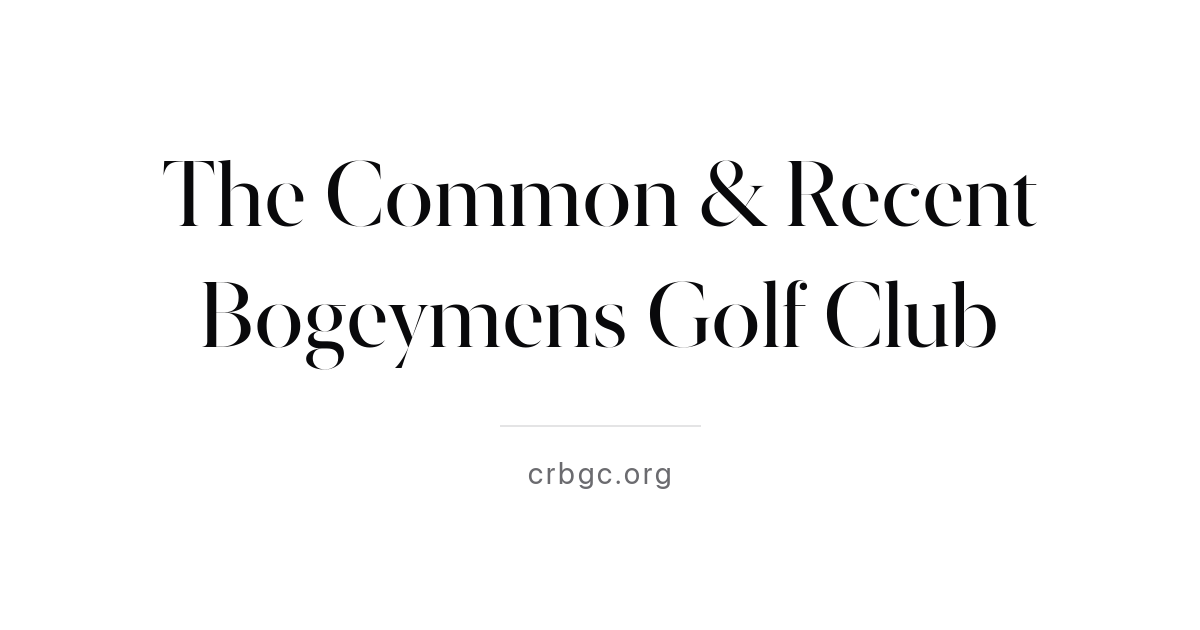
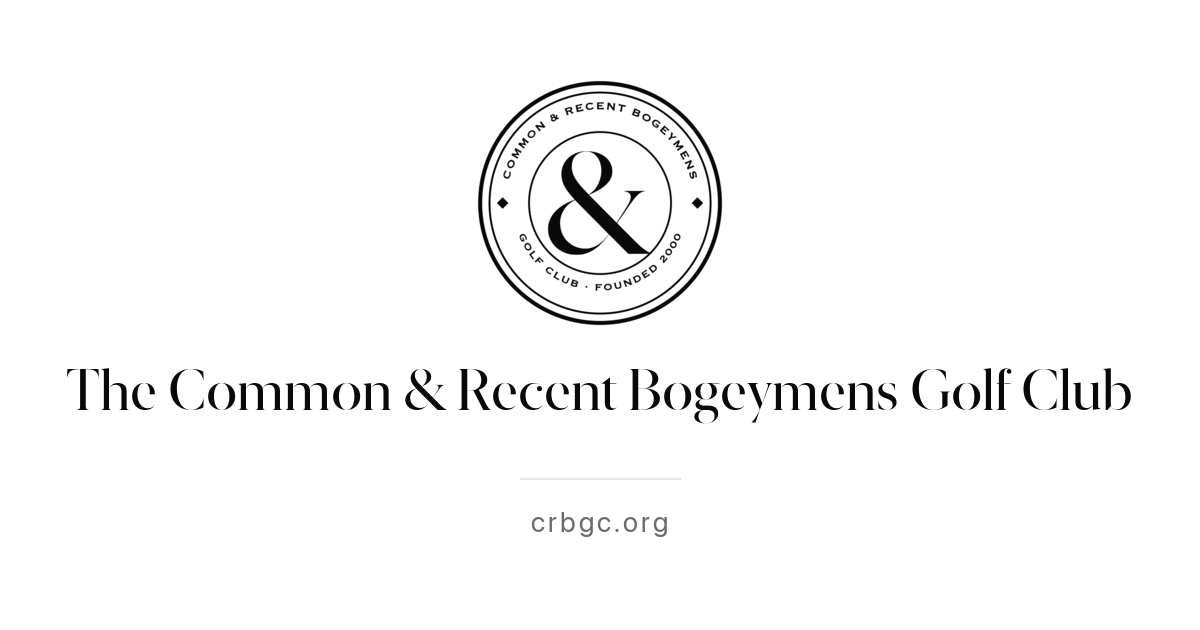
feat: give the Club a seal, and put it in the header and the card (#127)
feat: give the Club a seal, and put it in the header and the card (#126)

#124 gave the site an ampersand — enough for a favicon and deliberately no
more. It carries no name, so the header was a line of type and the link
preview a wordmark on white.

The seal reads COMMON & RECENT BOGEYMENS on the ring and GOLF CLUB ·
FOUNDED 2000 below. FOUNDED 2000 is deliberate: the homepage says the Club
formed informally in the summer of 2000 and was officially established in
the summer of 2026, and the seal claims the longer history.

Its centre is the same traced New York ampersand that static/favicon.svg
already carries, so the favicon is literally the seal's middle. The ring
is traced Copperplate. Both are outlines rather than <text>, which matters
more here than it did for the favicon: under a substitute face the ring
text would over- or under-run its arc rather than merely shifting.

The rings are filled annuli rather than strokes. That makes the seal
fill-only, which is what lets ImageMagick render it — verified against a
WebKit render of the same file at RMSE 1.8%, pure antialiasing. So the
card composites inside `task icons` and stays byte-stable, instead of
needing a browser in the build path.

In the header it is an <img>, never inlined: inline SVG would ship the
traced path data on all 89 pages. It is decorative there — alt="", with
the title text beside it carrying the accessible name — and has explicit
[…]

diff --git a/layouts/_default/baseof.html b/layouts/_default/baseof.html
@@ -64,7 +64,22 @@
   </head>
   <body>
     <header>
-      <a href="{{ "/" | relURL }}" class="site-title">{{ .Site.Title }}</a>
+      {{/* The seal is decorative here: alt="" keeps it out of the accessible
+        name, which stays the title text beside it. width/height are explicit so
+        the header does not shift while the SVG loads. It is an <img> rather than
+        inline SVG on purpose — inlining would ship the seal's traced path data
+        on every one of the site's pages.
+      */}}
+      <a href="{{ "/" | relURL }}" class="site-title">
+        <img
+          class="site-seal"
+          src="{{ "seal.svg" | relURL }}"
+          alt=""
+          width="56"
+          height="56"
+        />
+        <span>{{ .Site.Title }}</span>
+      </a>
       {{ $section := .Section }}
       <nav class="site-nav">
         <a

diff --git a/assets/css/style.css b/assets/css/style.css
@@ -91,11 +91,21 @@ header {
 }
 
 .site-title {
+  display: inline-flex;
+  align-items: center;
+  gap: 0.75rem;
   font-family: var(--font-heading);
   font-size: var(--size-h5);
   font-weight: 400;
   color: var(--fg);
   text-decoration: none;
+}
+
+/* The seal keeps its own size; only the title text beside it wraps. */
+.site-seal {
+  flex: none;
+  width: 3.5rem;
+  height: 3.5rem;
 }
 
 .site-title:hover {

diff --git a/README.md b/README.md
@@ -16,7 +16,7 @@ content/
   notes/                          # essays, history, course architecture — the informal side
 layouts/                          # Hugo templates and partials
 assets/css/style.css              # site styles (Biome-managed)
-static/                           # served at the root: CNAME, favicons, the Open Graph card
+static/                           # served at the root: CNAME, the seal, favicons, the Open Graph card
 hugo.toml                         # config: permalinks, disabled kinds, locale
 ```
 
@@ -42,9 +42,10 @@ The homepage is curated, not a mirror of the nav. The nav carries five sections;
 - **No taxonomies.** `notice_type` and `meeting_type` live in frontmatter and are queried directly in templates.
 - **No `tags:`, no `lastmod:`.** With taxonomy and term pages disabled, tags rendered nowhere and reached no feed. `lastmod:` fed only the feed's `lastBuildDate`, which is also gone — `layouts/home.rss.xml` explains why and what restoring it would cost. Content frontmatter is `title`, `description`, `date`, plus the fields its own section needs.
 - **`<abbr>` tags** in content are intentional (e.g., for C&RBGC tooltips).
-- **The icons and the link-preview card are generated — `task icons`.** `static/favicon.svg` is the source and is the one file that task does not rebuild: its `<path>` is a traced outline of the New York ampersand, the `&` from the Club's own name. It is an outline rather than a `<text>` element on purpose — the site renders body text in the reader's own system serif by design, but an icon is a mark and should look the same everywhere. Retracing it needs `qlmanage` and `potrace`; the rasters below it need only ImageMagick.
+- **The icons and the link-preview card are generated — `task icons`.** Two files are the sources and are the ones that task does not rebuild: `static/seal.svg`, the Club's seal, and `static/favicon.svg`. Both carry traced outlines rather than `<text>` — the seal's ring is Copperplate, and both centre on the same traced New York ampersand, the `&` from the Club's own name, so the favicon is literally the seal's middle. They are outlines on purpose: the site renders body text in the reader's own system serif by design, but a mark should look the same everywhere, and the seal's ring text would over- or under-run its arc under a substitute face. Retracing needs a WebKit render plus `potrace`; everything downstream needs only ImageMagick.
 - **`favicon.ico` earns its place next to `favicon.svg`.** Browsers take the SVG, but scrapers, feed readers and chat clients request `/favicon.ico` unconditionally, whatever the markup says. Every icon has an opaque white ground: a `#09090b` mark on transparency vanishes into dark browser chrome, and iOS fills a transparent touch icon with black.
-- **One Open Graph card for the whole site.** `static/og-image.png` carries the Club's name and nothing else, so it never goes stale and never disagrees with the page it fronts — `og:title` and `og:description` already carry everything page-specific. `og:image` must be absolute, so the template builds it with `absURL`.
+- **One Open Graph card for the whole site.** `static/og-image.png` is the seal over the Club's name, and carries nothing page-specific, so it never goes stale and never disagrees with the page it fronts — `og:title` and `og:description` already carry that. `og:image` must be absolute, so the template builds it with `absURL`.
+- **The seal in the header is an `<img>`, never inlined.** Inline SVG would ship the seal's traced path data on every page. It is decorative there — `alt=""`, with the title text beside it carrying the accessible name — and has explicit `width`/`height` so the header does not shift as it loads. Below roughly 30rem the seal keeps its size and only the text wraps.
 
 ## Adding content
 
